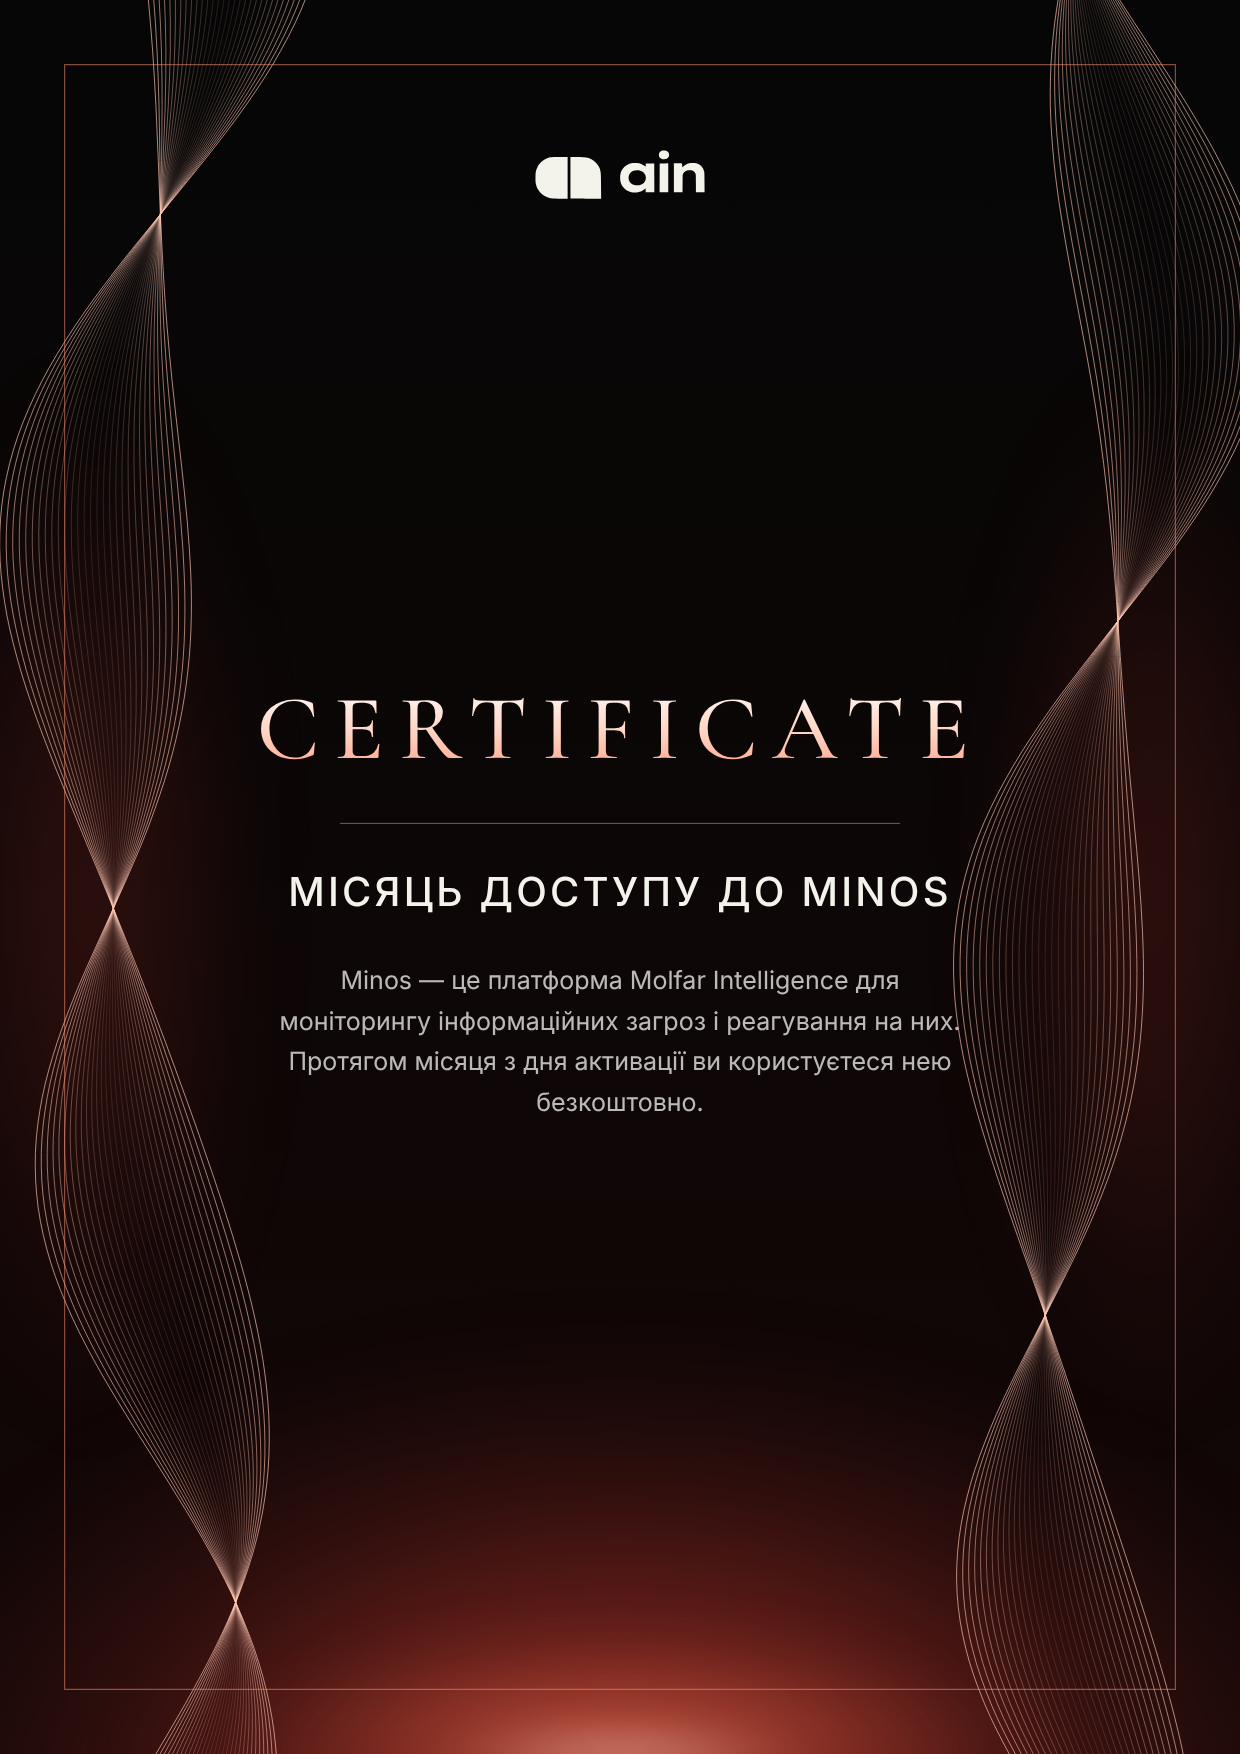
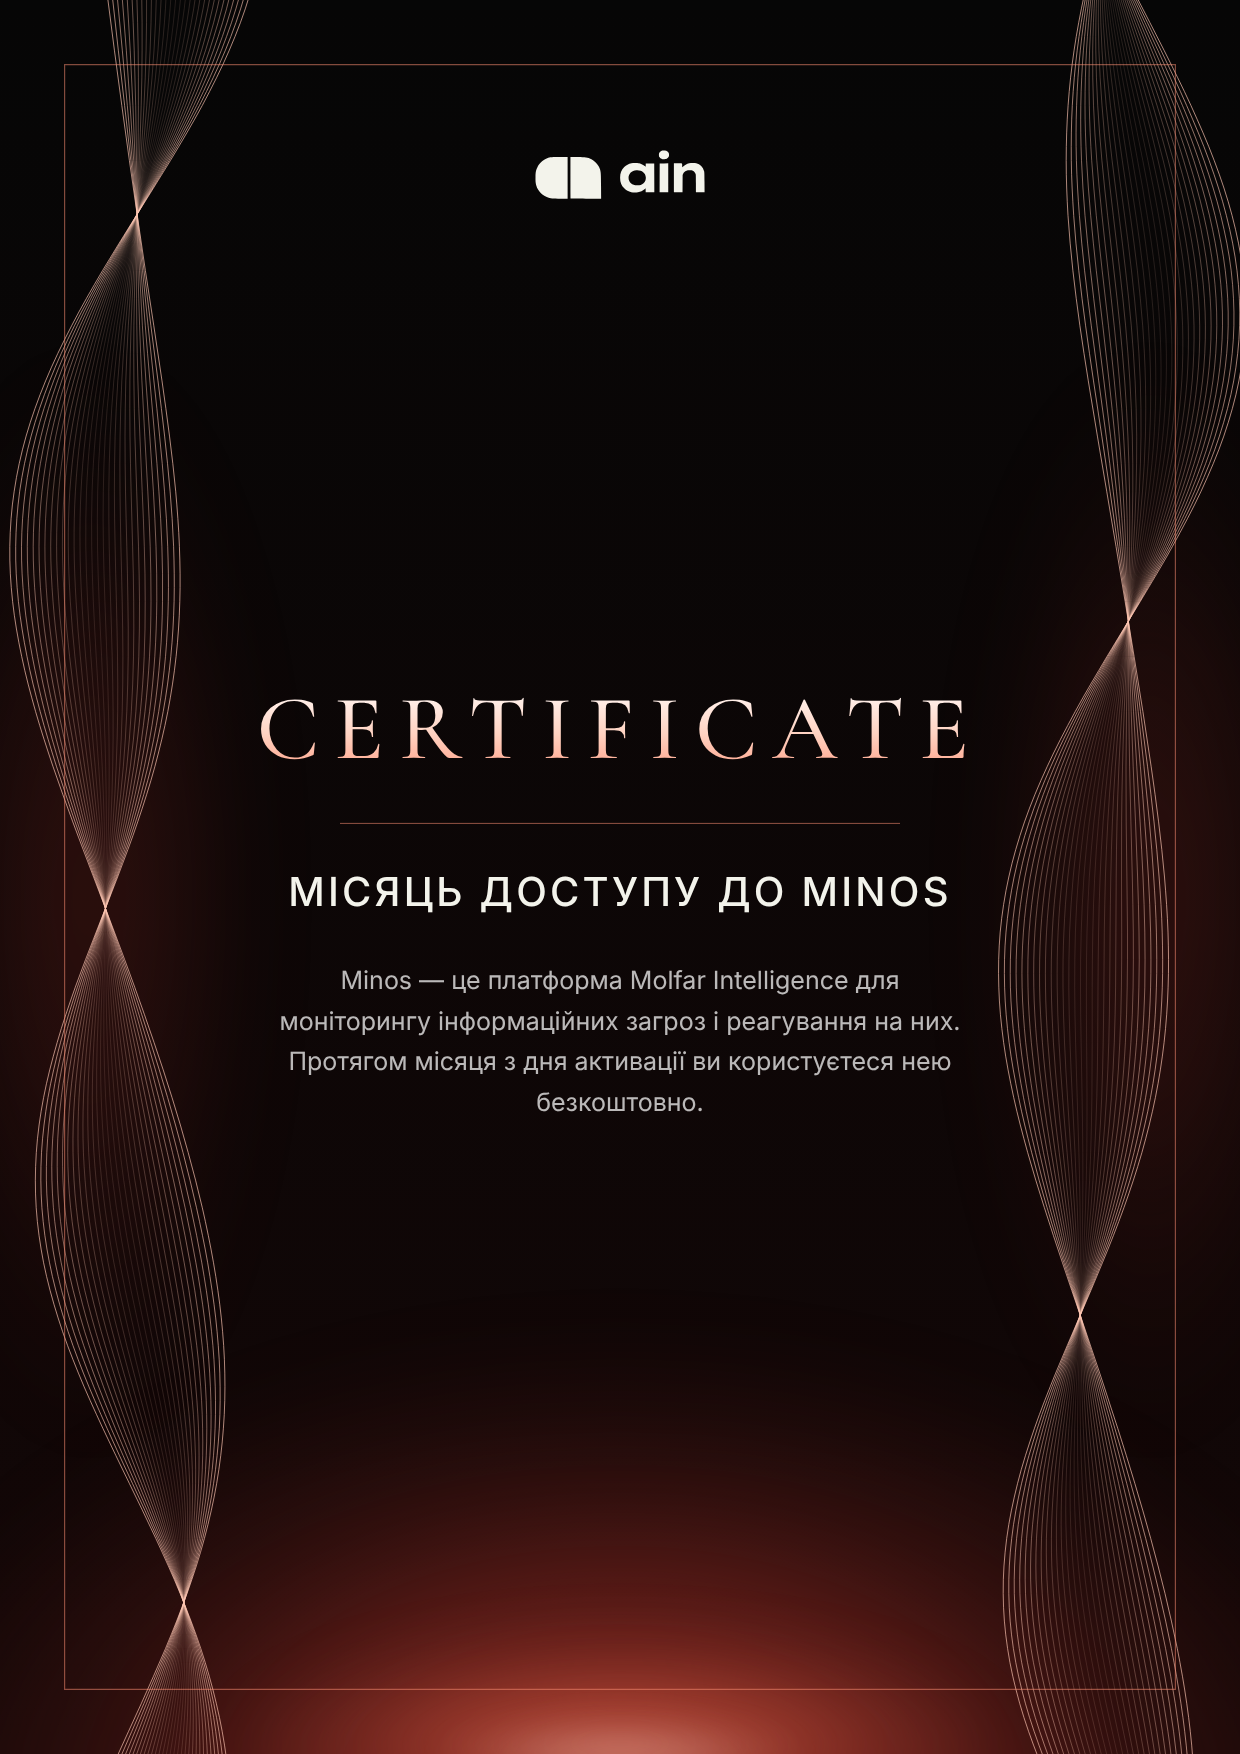
Плагін: усе в двох секціях (A Swiss, B Luxury) — сертифікати й пакування
Зверху 3 сертифікати, знизу 3 мокапи в конверті. Шлях конверта переписано в
безпечний для Figma формат; стрічки B не заходять у текстову колонку.

Claude-Session: https://claude.ai/code/session_01JW72noxTFsibkUspgJ9z9a

Changed region(s): [[0.7661, 0.0, 1.0, 1.0], [0.0, 0.0, 0.2452, 1.0]]

diff --git a/ain-awards-certificate/code.js b/ain-awards-certificate/code.js
@@ -108,9 +108,10 @@ function certA(p) {
 /* ---------- напрямок B: «розкіш» (за 2-м референсом) ---------- */
 function certB(p, i) {
   const foil = lin("v", [[0, "#FFFFFF"], [0.55, "#FFD3C2"], [1, "#FF9A80"]]);
-  const base = { c: "#FFC7B3", A: 62, A2: 24, f: 1.05, f2: 2.3, ph3: 1.3, Wmax: 190, g: 1.35 };
-  const L = Object.assign({}, base, { x0: 150, ph: 0.5 + i * 0.7, ph2: 0.9 + i * 0.5 });
-  const R = Object.assign({}, base, { x0: 150, ph: 2.1 + i * 0.6, ph2: 2.4 + i * 0.4, mirror: true });
+  /* розмах обмежено: x0+A+A2+Wmax/2 = 269 < 270 — стрічка не заходить у текстову колонку (270…970) */
+  const base = { c: "#FFC7B3", A: 40, A2: 14, f: 1.05, f2: 2.3, ph3: 1.3, Wmax: 170, g: 1.35 };
+  const L = Object.assign({}, base, { x0: 130, ph: 0.5 + i * 0.7, ph2: 0.9 + i * 0.5 });
+  const R = Object.assign({}, base, { x0: 130, ph: 2.1 + i * 0.6, ph2: 2.4 + i * 0.4, mirror: true });
   const title = [text({ n: "title", s: p.title, w: 760, al: "c", f: "dm", sz: 40, lhr: 1.2, ls: 0.08, c: PAL.cream, caps: true })];
   if (p.by) title.push(text({ n: "by", s: p.by, w: 760, al: "c", f: "dr", sz: 27, lhr: 1.3, c: PAL.peach }));
   return {
@@ -161,7 +162,7 @@ function mockup(makeCert, p, i, label) {
   const MW = 1080, MH = 1920;
   const cw = 500, chh = Math.round((cw * H) / W), s = cw / W;
   const SW = 560, SH = 780, sx = (MW - SW) / 2, sy = 850;
-  const sleeveD = `M0 0H226L266 44Q280 58 294 44L334 0H560V780H0Z`;
+  const sleeveD = "M 0 0 L 226 0 L 266 44 C 275.33 53.33 284.67 53.33 294 44 L 334 0 L 560 0 L 560 780 L 0 780 Z";
   const sleeveBase = "#8A221E";
   const card = {
     t: "frame", n: "Сертифікат у конверті", x: (MW - cw) / 2, y: 330, w: cw, h: chh, clip: true, fill: solid("#0A0A0B"),
@@ -170,7 +171,7 @@ function mockup(makeCert, p, i, label) {
   };
   const emb = (dx, dy, c, op, name) => ({ t: "svg", n: name, x: MW / 2 - 60 + dx, y: sy + SH - 215 + dy, w: 120, h: 76.3, svg: markSvg(120, c), op });
   return {
-    t: "frame", n: "Мокап " + label + " — " + p.title, x: 0, y: 0, w: MW, h: MH, clip: true,
+    t: "frame", n: "Пакування " + label + " — " + p.title, x: 0, y: 0, w: MW, h: MH, clip: true,
     fill: solid("#111010"),
     ch: [
       card,
@@ -188,10 +189,10 @@ function mockup(makeCert, p, i, label) {
 
 function buildScenes() {
   const out = [];
-  PRIZES.forEach((p, i) => out.push(Object.assign(certA(p, i), { row: 0, pv: "A-" + (i + 1) })));
-  PRIZES.forEach((p, i) => out.push(Object.assign(certB(p, i), { row: 1, pv: "B-" + (i + 1) })));
-  PRIZES.forEach((p, i) => out.push(Object.assign(mockup(certA, p, i, "A"), { row: 2, pv: "mock-A-" + (i + 1) })));
-  PRIZES.forEach((p, i) => out.push(Object.assign(mockup(certB, p, i, "B"), { row: 3, pv: "mock-B-" + (i + 1) })));
+  [["A", certA, "A · Swiss"], ["B", certB, "B · Luxury"]].forEach(([g, fn, title]) => {
+    PRIZES.forEach((p, i) => out.push(Object.assign(fn(p, i), { grp: g, grpTitle: title, row: 0, pv: g + "-" + (i + 1) })));
+    PRIZES.forEach((p, i) => out.push(Object.assign(mockup(fn, p, i, g), { grp: g, grpTitle: title, row: 1, pv: "mock-" + g + "-" + (i + 1) })));
+  });
   return out;
 }
 
@@ -324,6 +325,7 @@ function build(n, parent, parentIsLayout) {
     node = figma.createVector();
     node.name = n.n || "path";
     node.vectorPaths = [{ windingRule: "NONZERO", data: n.d }];
+    node.strokes = [];
     applyShape(node, n);
     parent.appendChild(node);
   } else if (n.t === "ellipse") {
@@ -365,19 +367,40 @@ async function main() {
   await loadFonts();
   const scenes = buildScenes();
   let baseX = 0;
-  figma.currentPage.children.forEach((c) => { baseX = Math.max(baseX, c.x + c.width + 200); });
-  const rowH = {}, rowX = {}, rowY = {}, made = [];
-  scenes.forEach((sc) => { const r = sc.row || 0; rowH[r] = Math.max(rowH[r] || 0, sc.h); });
-  let yy = 0;
-  Object.keys(rowH).map(Number).sort((a, b) => a - b).forEach((r) => { rowY[r] = yy; yy += rowH[r] + 200; });
-  scenes.forEach((sc) => {
-    const r = sc.row || 0, x = rowX[r] == null ? baseX : rowX[r];
-    const root = build(Object.assign({}, sc, { x, y: rowY[r] }), figma.currentPage, false);
-    rowX[r] = x + root.width + 200;
-    made.push(root);
+  figma.currentPage.children.forEach((c) => { baseX = Math.max(baseX, c.x + c.width + 300); });
+  /* Збираємо все у дві секції: A · Swiss і B · Luxury (зверху сертифікати, знизу пакування) */
+  const PAD = 120, GAP = 100, ROWGAP = 160, COLW = 1240, CERT_H = 1754, MOCK_H = 1920;
+  const secW = PAD * 2 + 3 * COLW + 2 * GAP, secH = PAD + CERT_H + ROWGAP + MOCK_H + PAD;
+  const groups = {};
+  scenes.forEach((sc) => { (groups[sc.grp] = groups[sc.grp] || { title: sc.grpTitle, list: [] }).list.push(sc); });
+  const made = [];
+  let gx = baseX;
+  Object.keys(groups).forEach((g) => {
+    let container = figma.currentPage, ox = gx, oy = 0, sec = null;
+    try {
+      sec = figma.createSection();
+      sec.name = groups[g].title + " — сертифікати та пакування";
+      sec.x = gx; sec.y = 0;
+      sec.resizeWithoutConstraints(secW, secH);
+      sec.fills = [{ type: "SOLID", color: hex("#1A1A1A") }];
+      container = sec; ox = 0; oy = 0;
+      made.push(sec);
+    } catch (e) {
+      NOTES.push("Секції недоступні, макети розкладено на сторінці.");
+      sec = null;
+    }
+    const cnt = [0, 0];
+    groups[g].list.forEach((sc) => {
+      const col = cnt[sc.row]++;
+      const x = ox + PAD + col * (COLW + GAP) + (COLW - sc.w) / 2;
+      const y = oy + (sc.row === 0 ? PAD : PAD + CERT_H + ROWGAP);
+      const root = build(Object.assign({}, sc, { x, y }), container, false);
+      if (!sec) made.push(root);
+    });
+    gx += secW + 400;
   });
   figma.currentPage.selection = made;
   figma.viewport.scrollAndZoomIntoView(made);
-  return "Готово: " + made.length + " макет(ів). " + NOTES.join(" ");
+  return "Готово: " + scenes.length + " макетів (3 призи × 2 стилі × сертифікат і пакування). " + NOTES.join(" ");
 }
 main().then((m) => figma.closePlugin(m)).catch((e) => figma.closePlugin("Помилка: " + (e && e.message ? e.message : e)));

diff --git a/ain-awards-certificate/spec.js b/ain-awards-certificate/spec.js
@@ -105,9 +105,10 @@ function certA(p) {
 /* ---------- напрямок B: «розкіш» (за 2-м референсом) ---------- */
 function certB(p, i) {
   const foil = lin("v", [[0, "#FFFFFF"], [0.55, "#FFD3C2"], [1, "#FF9A80"]]);
-  const base = { c: "#FFC7B3", A: 62, A2: 24, f: 1.05, f2: 2.3, ph3: 1.3, Wmax: 190, g: 1.35 };
-  const L = Object.assign({}, base, { x0: 150, ph: 0.5 + i * 0.7, ph2: 0.9 + i * 0.5 });
-  const R = Object.assign({}, base, { x0: 150, ph: 2.1 + i * 0.6, ph2: 2.4 + i * 0.4, mirror: true });
+  /* розмах обмежено: x0+A+A2+Wmax/2 = 269 < 270 — стрічка не заходить у текстову колонку (270…970) */
+  const base = { c: "#FFC7B3", A: 40, A2: 14, f: 1.05, f2: 2.3, ph3: 1.3, Wmax: 170, g: 1.35 };
+  const L = Object.assign({}, base, { x0: 130, ph: 0.5 + i * 0.7, ph2: 0.9 + i * 0.5 });
+  const R = Object.assign({}, base, { x0: 130, ph: 2.1 + i * 0.6, ph2: 2.4 + i * 0.4, mirror: true });
   const title = [text({ n: "title", s: p.title, w: 760, al: "c", f: "dm", sz: 40, lhr: 1.2, ls: 0.08, c: PAL.cream, caps: true })];
   if (p.by) title.push(text({ n: "by", s: p.by, w: 760, al: "c", f: "dr", sz: 27, lhr: 1.3, c: PAL.peach }));
   return {
@@ -158,7 +159,7 @@ function mockup(makeCert, p, i, label) {
   const MW = 1080, MH = 1920;
   const cw = 500, chh = Math.round((cw * H) / W), s = cw / W;
   const SW = 560, SH = 780, sx = (MW - SW) / 2, sy = 850;
-  const sleeveD = `M0 0H226L266 44Q280 58 294 44L334 0H560V780H0Z`;
+  const sleeveD = "M 0 0 L 226 0 L 266 44 C 275.33 53.33 284.67 53.33 294 44 L 334 0 L 560 0 L 560 780 L 0 780 Z";
   const sleeveBase = "#8A221E";
   const card = {
     t: "frame", n: "Сертифікат у конверті", x: (MW - cw) / 2, y: 330, w: cw, h: chh, clip: true, fill: solid("#0A0A0B"),
@@ -167,7 +168,7 @@ function mockup(makeCert, p, i, label) {
   };
   const emb = (dx, dy, c, op, name) => ({ t: "svg", n: name, x: MW / 2 - 60 + dx, y: sy + SH - 215 + dy, w: 120, h: 76.3, svg: markSvg(120, c), op });
   return {
-    t: "frame", n: "Мокап " + label + " — " + p.title, x: 0, y: 0, w: MW, h: MH, clip: true,
+    t: "frame", n: "Пакування " + label + " — " + p.title, x: 0, y: 0, w: MW, h: MH, clip: true,
     fill: solid("#111010"),
     ch: [
       card,
@@ -185,9 +186,9 @@ function mockup(makeCert, p, i, label) {
 
 function buildScenes() {
   const out = [];
-  PRIZES.forEach((p, i) => out.push(Object.assign(certA(p, i), { row: 0, pv: "A-" + (i + 1) })));
-  PRIZES.forEach((p, i) => out.push(Object.assign(certB(p, i), { row: 1, pv: "B-" + (i + 1) })));
-  PRIZES.forEach((p, i) => out.push(Object.assign(mockup(certA, p, i, "A"), { row: 2, pv: "mock-A-" + (i + 1) })));
-  PRIZES.forEach((p, i) => out.push(Object.assign(mockup(certB, p, i, "B"), { row: 3, pv: "mock-B-" + (i + 1) })));
+  [["A", certA, "A · Swiss"], ["B", certB, "B · Luxury"]].forEach(([g, fn, title]) => {
+    PRIZES.forEach((p, i) => out.push(Object.assign(fn(p, i), { grp: g, grpTitle: title, row: 0, pv: g + "-" + (i + 1) })));
+    PRIZES.forEach((p, i) => out.push(Object.assign(mockup(fn, p, i, g), { grp: g, grpTitle: title, row: 1, pv: "mock-" + g + "-" + (i + 1) })));
+  });
   return out;
 }

diff --git a/ain-awards-certificate/figma-render.js b/ain-awards-certificate/figma-render.js
@@ -127,6 +127,7 @@ function build(n, parent, parentIsLayout) {
     node = figma.createVector();
     node.name = n.n || "path";
     node.vectorPaths = [{ windingRule: "NONZERO", data: n.d }];
+    node.strokes = [];
     applyShape(node, n);
     parent.appendChild(node);
   } else if (n.t === "ellipse") {
@@ -168,19 +169,40 @@ async function main() {
   await loadFonts();
   const scenes = buildScenes();
   let baseX = 0;
-  figma.currentPage.children.forEach((c) => { baseX = Math.max(baseX, c.x + c.width + 200); });
-  const rowH = {}, rowX = {}, rowY = {}, made = [];
-  scenes.forEach((sc) => { const r = sc.row || 0; rowH[r] = Math.max(rowH[r] || 0, sc.h); });
-  let yy = 0;
-  Object.keys(rowH).map(Number).sort((a, b) => a - b).forEach((r) => { rowY[r] = yy; yy += rowH[r] + 200; });
-  scenes.forEach((sc) => {
-    const r = sc.row || 0, x = rowX[r] == null ? baseX : rowX[r];
-    const root = build(Object.assign({}, sc, { x, y: rowY[r] }), figma.currentPage, false);
-    rowX[r] = x + root.width + 200;
-    made.push(root);
+  figma.currentPage.children.forEach((c) => { baseX = Math.max(baseX, c.x + c.width + 300); });
+  /* Збираємо все у дві секції: A · Swiss і B · Luxury (зверху сертифікати, знизу пакування) */
+  const PAD = 120, GAP = 100, ROWGAP = 160, COLW = 1240, CERT_H = 1754, MOCK_H = 1920;
+  const secW = PAD * 2 + 3 * COLW + 2 * GAP, secH = PAD + CERT_H + ROWGAP + MOCK_H + PAD;
+  const groups = {};
+  scenes.forEach((sc) => { (groups[sc.grp] = groups[sc.grp] || { title: sc.grpTitle, list: [] }).list.push(sc); });
+  const made = [];
+  let gx = baseX;
+  Object.keys(groups).forEach((g) => {
+    let container = figma.currentPage, ox = gx, oy = 0, sec = null;
+    try {
+      sec = figma.createSection();
+      sec.name = groups[g].title + " — сертифікати та пакування";
+      sec.x = gx; sec.y = 0;
+      sec.resizeWithoutConstraints(secW, secH);
+      sec.fills = [{ type: "SOLID", color: hex("#1A1A1A") }];
+      container = sec; ox = 0; oy = 0;
+      made.push(sec);
+    } catch (e) {
+      NOTES.push("Секції недоступні, макети розкладено на сторінці.");
+      sec = null;
+    }
+    const cnt = [0, 0];
+    groups[g].list.forEach((sc) => {
+      const col = cnt[sc.row]++;
+      const x = ox + PAD + col * (COLW + GAP) + (COLW - sc.w) / 2;
+      const y = oy + (sc.row === 0 ? PAD : PAD + CERT_H + ROWGAP);
+      const root = build(Object.assign({}, sc, { x, y }), container, false);
+      if (!sec) made.push(root);
+    });
+    gx += secW + 400;
   });
   figma.currentPage.selection = made;
   figma.viewport.scrollAndZoomIntoView(made);
-  return "Готово: " + made.length + " макет(ів). " + NOTES.join(" ");
+  return "Готово: " + scenes.length + " макетів (3 призи × 2 стилі × сертифікат і пакування). " + NOTES.join(" ");
 }
 main().then((m) => figma.closePlugin(m)).catch((e) => figma.closePlugin("Помилка: " + (e && e.message ? e.message : e)));

diff --git a/ain-awards-certificate/README.md b/ain-awards-certificate/README.md
@@ -2,21 +2,21 @@
 
 Локальний плагін збирає у Figma за один запуск **12 макетів**: 3 призи (Background check, Курс з OSINT, Місяць доступу до Minos) × 2 напрямки × (сертифікат + мокап у конверті).
 
-| Ряд у Figma | Що |
-|---|---|
-| 1 | **A · Swiss** — за 1-м референсом: тонкий шрифт ліворуч, величезне обрізане слово CERTIFICATE вертикально праворуч |
-| 2 | **B · Luxury** — за 2-м референсом: центр, тонка рамка, розріджене «Certificate» з фольговим градієнтом, лінійні стрічки з боків |
-| 3 | Мокап напрямку A: сертифікат у подарунковому конверті (за 3-м референсом) |
-| 4 | Мокап напрямку B |
+Плагін розкладає все у **дві секції** Figma:
 
-Сертифікати — A4 portrait 1240×1754, мокапи — 1080×1920. Картка в мокапі — **справжній зменшений сертифікат** (не картинка).
+| Секція | Зверху (A4 portrait 1240×1754) | Знизу (пакування, 1080×1920) |
+|---|---|---|
+| **A · Swiss** — за 1-м референсом: тонкий шрифт ліворуч, величезне обрізане слово CERTIFICATE вертикально праворуч | 3 сертифікати | 3 мокапи в конверті |
+| **B · Luxury** — за 2-м референсом: центр, тонка рамка, розріджене «Certificate» з фольговим градієнтом, лінійні стрічки з боків | 3 сертифікати | 3 мокапи в конверті |
+
+Конверт — за 3-м референсом (V-виріз, тиснений знак AIN). Сертифікати — A4 portrait 1240×1754, мокапи — 1080×1920. Картка в мокапі — **справжній зменшений сертифікат** (не картинка).
 На сертифікатах тільки слово Certificate, текст із брифу й логотип AIN (вектор з `godlike-landing/assets/ain-white.png`). Без отримувача, печаток і полів.
 Кольори — з AIN Awards 2026: чорний, червоні світіння, кремовий, персиковий.
 
 ## Запуск (≈1 хвилина, не витрачає ліміт Figma MCP)
 1. Створіть **порожній** файл у **Figma Desktop**.
 2. **Plugins → Development → Import plugin from manifest…** → `manifest.json` (поруч має лежати `code.js`; обидва файли є в `ain-awards-certificate-plugin.zip`).
-3. **Plugins → Development → AIN Awards 2026 — сертифікати Molfar**. Макети зʼявляться праворуч від наявного вмісту (до 40 с).
+3. **Plugins → Development → AIN Awards 2026 — сертифікати Molfar**. Дві секції зʼявляться праворуч від наявного вмісту (до 40 с); плагін сам наблизить вид.
 
 Шрифти: **Basis Grotesque Pro** (Regular/Medium) і **Cormorant Garamond Medium** (є у Figma, Google Fonts). Якщо шрифту немає, плагін підставить Inter і напише про це.
 Величезне слово в A автоматично підганяється під висоту сторінки за метриками вашого шрифту.
